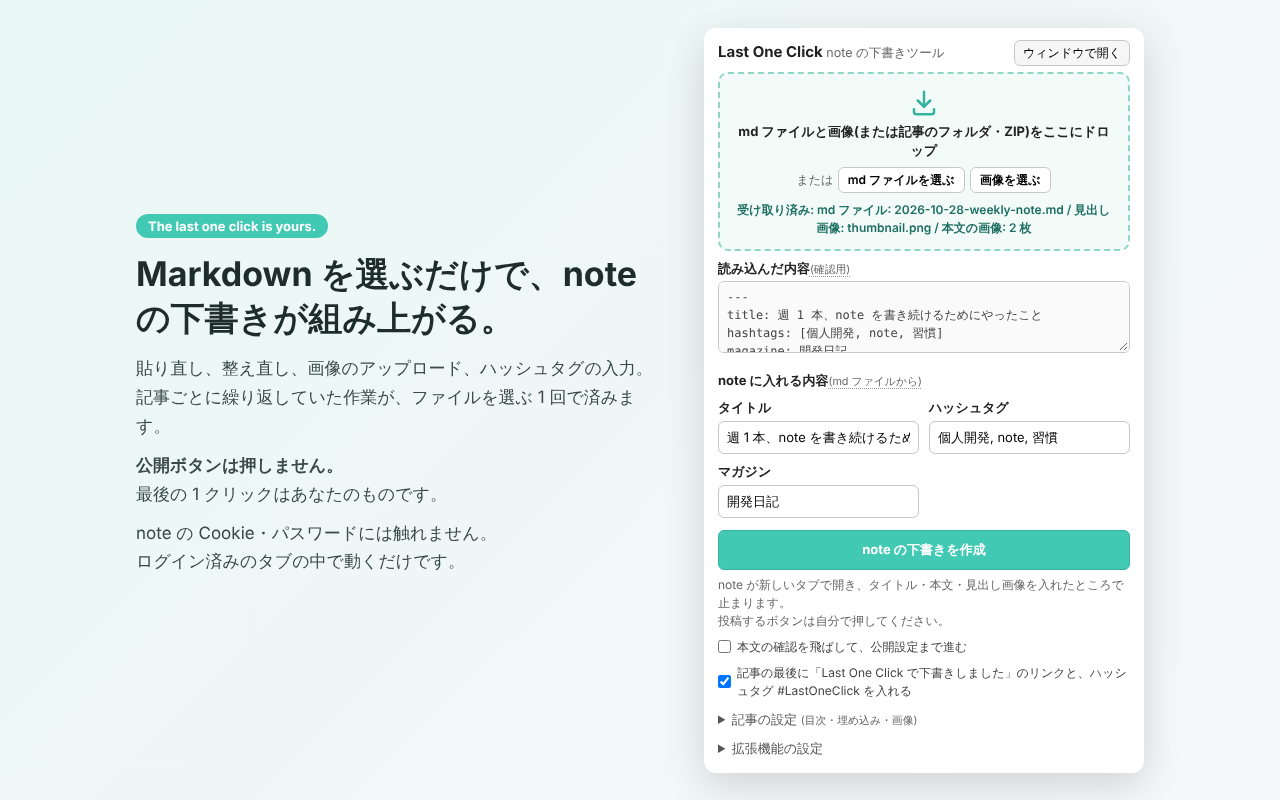
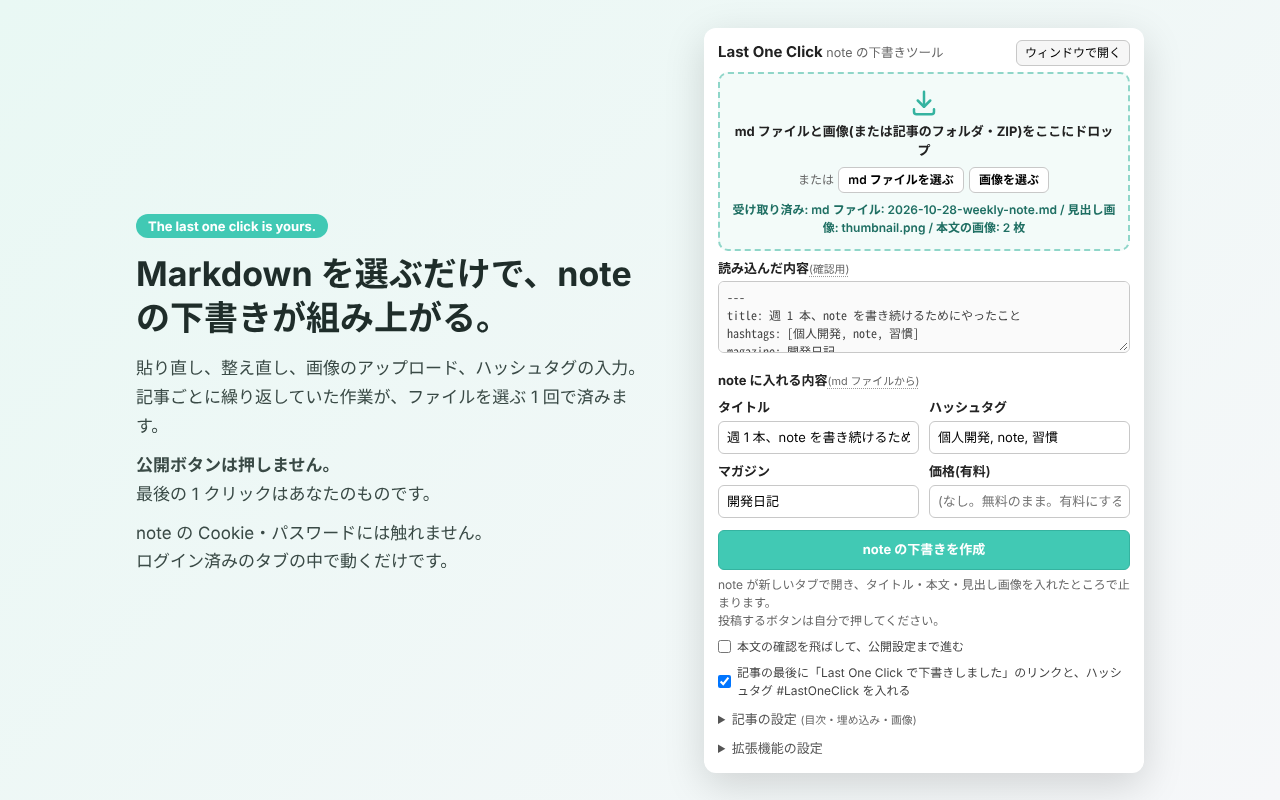
release: v0.1.6 にする
- manifest.json・package.json・package-lock.json の version を 0.1.6 にする
- docs/releases/next.md を docs/releases/v0.1.6.md(リリースの本文)にし、空の next.md を作り直す
- ストアの詳細な説明に、有料記事(price と「ここから有料」の印)を足す
- ストアの画像を、今のポップアップ(価格の欄)から作り直す

Refs #100

Claude-Session: https://claude.ai/code/session_013Cqe6jnYd5JrgB5Mzm7x5o

diff --git a/docs/releases/v0.1.6.md b/docs/releases/v0.1.6.md
@@ -1,0 +1,29 @@
+# v0.1.6
+
+有料記事の下書き(「有料」と価格、有料エリアのライン)まで入れられるようにした版です。現在は note に対応しています。
+
+## 変わったこと
+
+- md の front matter に `price: 300` のように書くと、公開設定で記事タイプの「有料」を選び、価格を入れるようにしました(ポップアップの「価格(有料)」の欄で直せます)
+- `price` と一緒に、本文に `<!-- ここから有料 -->` だけの行を書くと、公開設定で「有料エリア設定」を押し、その行の直前の段落のすぐ下に有料エリアのラインを引いて止まるようにしました
+  - 印が無ければ、これまでどおり「有料エリア設定」は押しません。どこから有料にするかは note の画面で決めてください
+  - 公開設定を「キャンセル」で閉じたときや、下書きを保存して開き直したときは、有料・価格と有料エリアのラインが note 側で消えます。バナーの「もう一度入れる」で入れ直せます
+  - セールの設定には触れません
+- 有料記事の見本 [templates/note-paid](https://github.com/shibuhachi-works/last-one-click/tree/v0.1.6/templates/note-paid) を足しました(`price` と `<!-- ここから有料 -->` の使い方)
+- 診断(「拡張機能の設定」→「診断(動かないとき)」)の「コピー」を押したとき、コピーできたことをボタンの上に「コピーしました ✓」と出すようにしました(少したつと元の「コピー」に戻ります)
+- 診断のレポートに、節「ログイン中のアカウントの手がかり」を足しました(アイコンらしい画像・プロフィールらしいリンク・ページに埋め込まれたデータのキー・メニューを開くボタンが、どこにあるか)。名前・ID・アイコンの URL などの中身は出さず、レポート全体からも伏せます
+- 「拡張機能の設定」のバージョン表示の下に、使い方の記事(note)へのリンクを足しました(新しいタブで開きます)
+
+## 入手
+
+- Chrome ウェブストア: https://chromewebstore.google.com/detail/last-one-click/jomapffkhcdpnodaffobmpfofnnaihnd
+- 入手・紹介ページ: https://shibuhachi.works/last-one-click/
+- 使い方は [extension/README.md](https://github.com/shibuhachi-works/last-one-click/blob/v0.1.6/extension/README.md)、プライバシーポリシーは [docs/PRIVACY.md](https://github.com/shibuhachi-works/last-one-click/blob/v0.1.6/docs/PRIVACY.md)
+- 拡張でできることは、見本の記事 [templates/note](https://github.com/shibuhachi-works/last-one-click/tree/v0.1.6/templates/note)・[templates/note-paid](https://github.com/shibuhachi-works/last-one-click/tree/v0.1.6/templates/note-paid) を「GitHub から読み込む」で読み込むか、フォルダごとドロップして試せます
+
+## 変えていないもの
+
+- 権限(`host_permissions`)、note の Cookie・パスワードに触れないこと、記事を送るサーバーを持たないこと、公開ボタンを押さないこと
+- 「投稿する」「有料で公開する」は押しません。最後の 1 クリックは人が押します
+
+不具合は Issues へ。ライセンスは MIT です。

diff --git a/docs/releases/next.md b/docs/releases/next.md
@@ -1,19 +1,10 @@
 # 次の版(まだストアに出していない)
 
-ストアに出ている版(v0.1.5)のあとに main にマージした、利用者に関係する変更をためておく所です。ここにある機能は、次の版(v0.1.6)がストアで公開されるまで、ストアから入れた拡張では使えません。
+ストアに出ている版(v0.1.6)のあとに main にマージした、利用者に関係する変更をためておく所です。ここにある機能は、次の版(v0.1.7)がストアで公開されるまで、ストアから入れた拡張では使えません。
 
 - 拡張の動きを変える PR は、同じ PR でここに 1 行足す(見張り役(`tools/`)・テストだけの変更は書かない)
-- リリースの PR で、このファイルを `docs/releases/v0.1.6.md` にし、空の `next.md` を作り直す(手順は [docs/store-submission.md](../store-submission.md))
+- リリースの PR で、このファイルを `docs/releases/v0.1.7.md` にし、空の `next.md` を作り直す(手順は [docs/store-submission.md](../store-submission.md))
 
 ## 変わったこと
 
-- md の front matter に `price: 300` のように書くと、公開設定で記事タイプの「有料」を選び、価格を入れるようにしました(ポップアップの「価格(有料)」の欄で直せます)。「有料エリア設定」は押さないので、どこから有料にするかは note の画面で決めてください
-- `price` と一緒に、本文に `<!-- ここから有料 -->` だけの行を書くと、公開設定で「有料エリア設定」を押し、その行の直前の段落のすぐ下に有料エリアのラインを引いて止まるようにしました(印が無ければ、これまでどおり「有料エリア設定」は押しません)
-- 診断(「拡張機能の設定」→「診断(動かないとき)」)の「コピー」を押したとき、コピーできたことをボタンの上に「コピーしました ✓」と出すようにしました(少したつと元の「コピー」に戻ります)
-- 診断のレポートに、節「ログイン中のアカウントの手がかり」を足しました(アイコンらしい画像・プロフィールらしいリンク・ページに埋め込まれたデータのキー・メニューを開くボタンが、どこにあるか)。名前・ID・アイコンの URL などの中身は出さず、レポート全体からも伏せます
-- 「拡張機能の設定」のバージョン表示の下に、使い方の記事(note)へのリンクを足しました(新しいタブで開きます)
-- 有料記事の見本 [templates/note-paid](https://github.com/shibuhachi-works/last-one-click/tree/main/templates/note-paid) を足しました(`price` と `<!-- ここから有料 -->` の使い方)
-
 ## 変えていないもの
-
-- 権限(`host_permissions`)、note の Cookie・パスワードに触れないこと、記事を送るサーバーを持たないこと、公開ボタンを押さないこと

diff --git a/extension/store/listing.md b/extension/store/listing.md
@@ -56,6 +56,11 @@ md ファイルと見出し画像を選んで 1 回押すだけで、note の下
 
 Last One Click を使って書かれた記事の中から、note のマガジン「Last One Click で書かれた記事」で、内容を見て紹介することがあります。リンクやハッシュタグを入れているかどうかは、紹介の条件にしません。
 
+■ 有料記事
+有料記事にしたいときだけ、記事ファイルの先頭に price: 300 のように書くと、公開設定で記事タイプの「有料」を選び、価格を入れます。
+本文に <!-- ここから有料 --> だけの行を書いておくと、「有料エリア設定」でその位置にラインを引いて止まります。
+「有料で公開する」は押しません。セールの設定には触れません。
+
 ■ 公開ボタンは押しません
 この拡張は、設計上、投稿・公開ボタンを一切押しません。
 下書きのまま止まるので、公開前に必ず自分の目で確かめられます。
